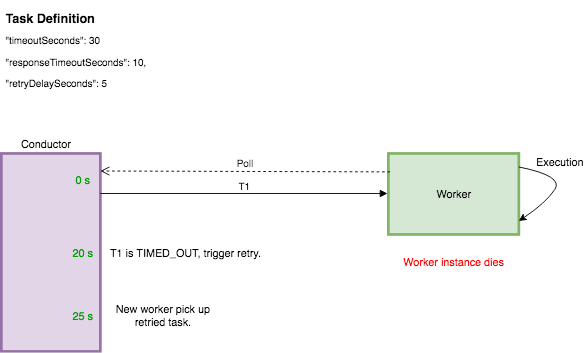
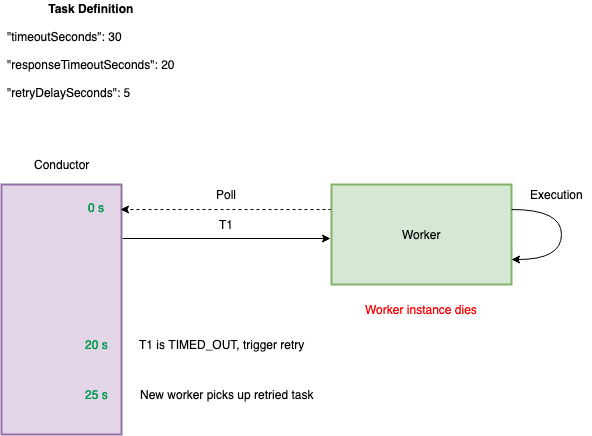
documentation: Fix responseTimeoutSeconds best practice
responseTimeoutSeconds should be <= timeoutSeconds. Updated Best Practices
documentation to reflect that. Also fixed references in the examples where the
opposite applied.

Closes #1048.

Changed region(s): [[0.0, 0.3428, 1.0, 1.0], [0.0, 0.0, 0.3082, 0.2493], [0.0, 0.966, 0.0308, 0.9972]]

diff --git a/docs/docs/bestpractices.md b/docs/docs/bestpractices.md
@@ -1,6 +1,6 @@
 ## Response Timeout
 - Configure the responseTimeoutSeconds of each task to be > 0.
-- This value should at least be equal to or greater than the value of timeoutSeconds.
+- Should be less than or equal to timeoutSeconds.
 
 ## Payload sizes
 - Configure your workflows such that conductor is not used as a persistence store.

diff --git a/docs/docs/labs/beginner.md b/docs/docs/labs/beginner.md
@@ -87,7 +87,7 @@ Similarly, create another task definition: `add_idents`.
   "retryDelaySeconds": 10,
   "timeoutSeconds": 300,
   "timeoutPolicy": "TIME_OUT_WF",
-  "responseTimeoutSeconds": 500
+  "responseTimeoutSeconds": 180
 }
 ```
 
